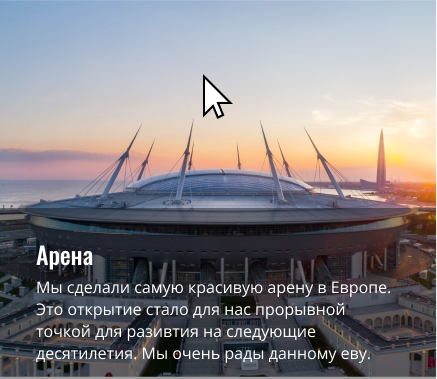
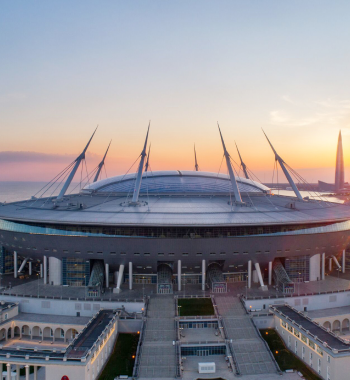
new

diff --git a/001/index.html b/001/index.html
@@ -1,24 +1,108 @@
 <!DOCTYPE html>
 <html lang="en">
 <head>
-    <meta charset="UTF-8">
-    <meta http-equiv="X-UA-Compatible" content="IE=edge">
-    <meta name="viewport" content="width=, initial-scale=1.0">
-    <link rel="stylesheet" href="./styles.css">
-    <title>Document</title>
+  <meta charset="UTF-8">
+  <meta name="viewport" content="width=device-width, initial-scale=1.0">
+  <link rel="stylesheet" href="https://fonts.googleapis.com/css2?family=Oswald&display=swap">
+  <link rel="stylesheet" href="https://fonts.googleapis.com/css2?family=Open+Sans&display=swap">
+  <title>My Webpage</title>
+  <link rel="stylesheet" href="styles.css">
 </head>
 <body>
-    <div class="header">
-        <h1>РЕАЛИЗУЕМ КРУПНЕЙШИЕ ПРОЕКТЫ В МИРЕ</h1>
-            <p>стадионы, газопроводы, мосты, дамбы</p>
+    <section class="header">
+    <div class="image-container">
+        <div class="image-overlay"></div>
+        <div class="container">
+            <h1 class="title">РЕАЛИЗУЕМ КРУПНЕЙШИЕ<br>ПРОЕКТЫ В МИРЕ</h1>
+            <p class="text">стадионы, газопроводы, мосты, дамбы</p>
+            <div class="block">
+                <div class="numbers_item">
+                    <h2 class="">26</h2>
+                    <h3 class="">ЛЕТ</h3>
+                    <h4 class="">на рынке</h4>
+                </div>
+                <div class="numbers_item">
+                    <h2 class="">26</h2>
+                    <h3 class="">ЛЕТ</h3>
+                    <h4 class="">на рынке</h4>
+                </div>
+                <div class="numbers_item">
+                    <h2 class="">26</h2>
+                    <h3 class="">ЛЕТ</h3>
+                    <h4 class="">на рынке</h4>
+                </div>
+                <div class="numbers_item">
+                    <h2 class="">26</h2>
+                    <h3 class="">ЛЕТ</h3>
+                    <h4 class="">на рынке</h4>
+                </div>
+            </div>
+        </div>
+          
     </div>
-    <div class="main">
-        <div class="box box1"></div>
-        <div class="box box2"></div>
-        <div class="box box3"></div>
-        <div class="box box4"></div>
-        <div class="box box5"></div>
+    </section>
+    <section class="main">
+    <div class="container1">
+        <h2 class="title1">НАШИ САМЫЕ БОЛЬШИЕ ПРОЕКТЫ</h2>
+        <div class="block1">
+            <div class="arena">
+                <img src="./images/project_arena.png" alt="Arena" class="">
+                <img src="./images/Rectangle 4.png" alt="Arena" class="rectangl4">
+                <h3 class="font_color">Арена</h3>
+                <p class="textarea">Мы сделали самую красивую арену в<br>Европе. Это открытие стало для нас<br>прорывной точкой для разивтия
+                    на<br>следующие десятилетия. Мы очень рады данному еву.</p>
+            </div>
+            <div class="arena">
+                <img src="./images/project_arena.png" alt="Arena" class="">
+                <img src="./images/Rectangle 4.png" alt="Arena" class="rectangl4">
+                <h3 class="font_color">Арена</h3>
+                <p class="textarea">Мы сделали самую красивую арену в<br>Европе. Это открытие стало для нас<br>прорывной точкой для разивтия
+                    на<br>следующие десятилетия. Мы очень рады данному еву.</p>
+            </div>
+            <div class="arena">
+                <img src="./images/project_arena.png" alt="Arena" class="">
+                <img src="./images/Rectangle 4.png" alt="Arena" class="rectangl4">
+                <h3 class="font_color">Арена</h3>
+                <p class="textarea">Мы сделали самую красивую арену в<br>Европе. Это открытие стало для нас<br>прорывной точкой для разивтия
+                    на<br>следующие десятилетия. Мы очень рады данному еву.</p>
+            </div>
+        </div>
     </div>
+    </section>
+    <section class="footer">
+        <div class="container1">
+            <h2 class="title1">НАШИ САМЫЕ БОЛЬШИЕ ПРОЕКТЫ</h2>
+            <div class="block">
+                <div class="numbers_item">
+                    <h2 class="">26</h2>
+                    <h3 class="">ЛЕТ</h3>
+                    <h4 class="">на рынке</h4>
+                </div>
+                <div class="numbers_item">
+                    <h2 class="">26</h2>
+                    <h3 class="">ЛЕТ</h3>
+                    <h4 class="">на рынке</h4>
+                </div>
+                <div class="numbers_item">
+                    <h2 class="">26</h2>
+                    <h3 class="">ЛЕТ</h3>
+                    <h4 class="">на рынке</h4>
+                </div>
+                <div class="numbers_item">
+                    <h2 class="">26</h2>
+                    <h3 class="">ЛЕТ</h3>
+                    <h4 class="">на рынке</h4>
+                </div>
+            </div>
+        </div>
+        </section>
+      
+
+      
+
+      
+      
+
 
 </body>
 </html>

diff --git a/001/styles.css b/001/styles.css
@@ -1,33 +1,141 @@
-*{
-    margin: 0;
-    padding: 0;
+* {
+  margin: 0;
+  padding: 0;
 }
+
 .header {
-    width: 1920px;
+  height: 82vh;
+  background-color: #000000;
+  color: #ffffff;
+  display: flex;
+  flex-direction: column;
+  align-items: center;
+  justify-content: center;
+  text-align: center;
 }
-h1 {
-position: absolute;
-width: 734px;
-height: 171px;
-left: 593px;
-top: 192px;
 
-font-family: 'Oswald';
-font-style: normal;
-font-weight: 500;
-font-size: 64px;
-line-height: 95px;
-text-align: center;
-letter-spacing: 0.02em;
-text-transform: uppercase;
+.image-container {
+  position: absolute;
+  width: 1920px;
 
-/* White */
-color: #FFFFFF;
+  left: 0px;
+  top: 0px;
+  background-image: url(images/bg.jpeg);
+  background-size: cover;
+  background-repeat: no-repeat;
+  background-position: center center;
 }
+
+.image-overlay {
+  position: absolute;
+  top: 0;
+  left: 0;
+  width: 100%;
+  height: 100%;
+  background-color: rgba(0, 0, 0, 0.5);
+}
+
+.container {
+  position: relative;
+  padding-top: 190px;
+  align-items: center;
+}
+
+.title {
+  font-family: 'Oswald', sans-serif;
+  font-size: 64px;
+  text-transform: uppercase;
+  margin-bottom: 20px;
+}
+
+.text {
+  font-family: 'Oswald', sans-serif;
+  font-size: 18px;
+  text-transform: uppercase;
+  margin-bottom: 30px;
+}
+
+.block {
+  margin: auto;
+  width: 1110px;
+  background: #ffffff;
+  display: flex;
+  justify-content: center;
+  align-items: center;
+}
+
+.numbers_item {
+  width: 190px;
+  height: 186px;
+  text-align: center;
+  padding-top: 57px;
+  padding-bottom: 57px;
+}
+
+h2 {
+  color: #F7654A;
+  font-size: 72px;
+  font-family: 'Oswald', sans-serif;
+  font-style: normal;
+}
+
+h3 {
+  font-size: 36px;
+  font-family: 'Oswald', sans-serif;
+  font-style: normal;
+  color: #000000;
+}
+
+h4 {
+  color: #999999;
+  font-family: 'Oswald', sans-serif;
+  font-style: normal;
+  font-size: 18px;
+}
+
 .main {
-    display: flex;
-    width: 450px;
-    border: 1px solid grey;
-    align-items: center;
+  background-color: #ffffff;
+  padding: 200px;
+  text-align: center;
+}
 
+.title1 {
+  font-family: 'Oswald', sans-serif;
+  font-size: 36px;
+  text-transform: uppercase;
+  margin-bottom: 60px;
+  color: #404149;
+}
+
+.block1 {
+  margin: auto;
+  width: 1110px;
+  display: flex;
+  justify-content: center;
+  align-items: center;
+  gap: 30px;
+}
+
+.arena {
+  display: flex;
+  flex-direction: column;
+  align-items: flex-start;
+  text-align: left;
+  color: #999999;
+  font-family: 'Open Sans', sans-serif;
+  font-size: 16px;
+}
+
+.rectangl4 {
+  padding-top: 45px;
+  padding-bottom: 15px;
+}
+
+.font_color {
+color: #404149;
+
+}
+
+.textarea {
+  padding-top: 20px;
 }
